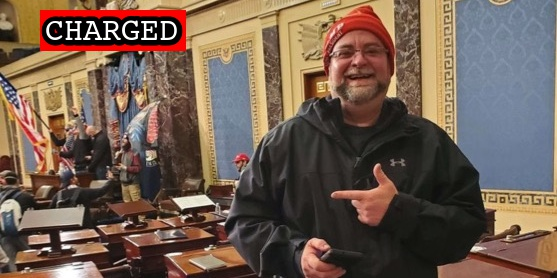
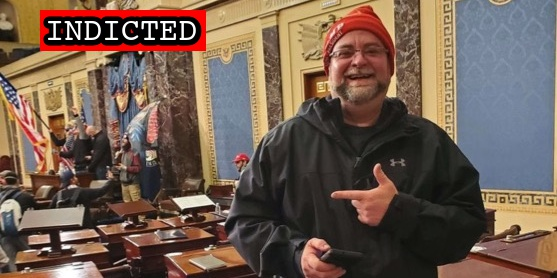
Chilcoat indictment

Changed region(s): [[0.061, 0.0288, 0.3968, 0.2014]]

diff --git a/docs/_suspects/shawndale-chilcoat.md b/docs/_suspects/shawndale-chilcoat.md
@@ -4,10 +4,10 @@ lastName: Chilcoat
 hashtag:
 aka:
 residence: Ohio
-status: Charged
+status: Indicted
 date: 2022-08-10
 charged: 2022-08-10
-indicted:
+indicted: 2022-09-09
 convicted:
 acquitted:
 sentenced:
@@ -27,17 +27,19 @@ courtroom:
 courthouse:
 raid:
 perpwalk:
-quote: 'OK so antifa is being blamed for breaking windows and storming congress. Um no, it was us I was with them and couldn’t be more proud. Please stop giving them credit and realize trumps side has crazies too and they should stew on that for awhile.'
+quote: "OK so antifa is being blamed for breaking windows and storming congress. Um no, it was us I was with them and couldn’t be more proud. Please stop giving them credit and realize trumps side has crazies too and they should stew on that for awhile."
 title: Shawndale Chilcoat charged on August 10th, 2022
 description: Click for latest case details. Suspects innocent until proven guilty.
 author: seditiontrack
 layout: suspect
 published: true
-caseNumber: 1:22-mj-179
+caseNumber: 1:22-cr-299
 videos:
 charges:
 sentence:
 ---
+
 - [News Report](https://mercercountyoutlook.net/2022/08/12/celina-residents-arrested-on-january-6th-capitol-charges/)
 - [Complaint](https://www.justice.gov/usao-dc/case-multi-defendant/file/1525766/download)
 - [Statement of Facts](https://www.justice.gov/usao-dc/case-multi-defendant/file/1525771/download)
+- [Indictment](https://storage.courtlistener.com/recap/gov.uscourts.dcd.247218/gov.uscourts.dcd.247218.20.0.pdf)

diff --git a/docs/_suspects/donald-chilcoat.md b/docs/_suspects/donald-chilcoat.md
@@ -4,10 +4,10 @@ lastName: Chilcoat
 hashtag:
 aka:
 residence: Ohio
-status: Charged
+status: Indicted
 date: 2022-08-10
 charged: 2022-08-10
-indicted:
+indicted: 2022-09-09
 convicted:
 acquitted:
 sentenced:
@@ -27,17 +27,19 @@ courtroom:
 courthouse:
 raid:
 perpwalk:
-quote: 'Crazy shit here. This is a fucking crazy mother fucking . . . we’re going into the capitol building now.'
+quote: "Crazy shit here. This is a fucking crazy mother fucking . . . we’re going into the capitol building now."
 title: Donald Chilcoat charged on August 10th, 2022
 description: Click for latest case details. Suspects innocent until proven guilty.
 author: seditiontrack
 layout: suspect
 published: true
-caseNumber: 1:22-mj-179
+caseNumber: 1:22-cr-299
 videos:
 charges:
 sentence:
 ---
+
 - [News Report](https://mercercountyoutlook.net/2022/08/12/celina-residents-arrested-on-january-6th-capitol-charges/)
 - [Complaint](https://www.justice.gov/usao-dc/case-multi-defendant/file/1525756/download)
 - [Statement of Facts](https://www.justice.gov/usao-dc/case-multi-defendant/file/1525761/download)
+- [Indictment](https://storage.courtlistener.com/recap/gov.uscourts.dcd.247218/gov.uscourts.dcd.247218.20.0.pdf)

diff --git a/docs/_suspects/jia-liu.md b/docs/_suspects/jia-liu.md
@@ -12,7 +12,7 @@ convicted:
 sentenced:
 dismissed:
 deceased:
-plea_hearing:
+plea_hearing: 2022-10-20
 sentencing:
 age: 26
 occupation: US Marine Corps Reserve
@@ -36,6 +36,7 @@ videos:
 charges:
 sentence:
 ---
+
 - [News Report](https://www.amny.com/news/queens-man-cuffed-for-role-in-attack-on-capitol-building-on-jan-6/)
 - [Statement of Facts](https://www.justice.gov/usao-dc/case-multi-defendant/file/1458881/download)
 - [Information](https://www.justice.gov/usao-dc/case-multi-defendant/file/1458871/download)
